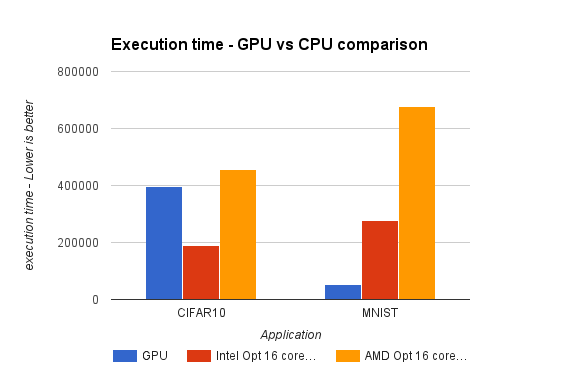
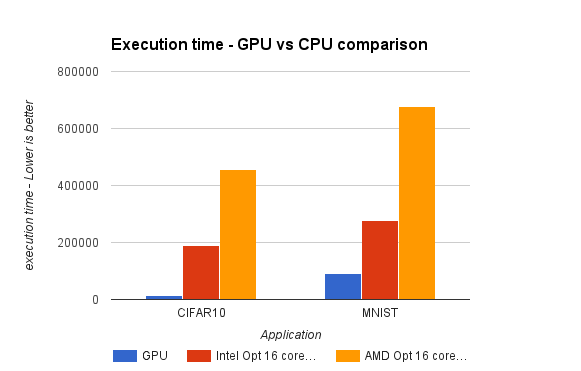
caffe optimization project complete

Changed region(s): [[0.2478, 0.504, 0.3408, 0.8005], [0.5577, 0.7412, 0.6196, 0.7709]]

diff --git a/projects/caffe-optimization-for-multicore-cpu.html b/projects/caffe-optimization-for-multicore-cpu.html
@@ -87,7 +87,8 @@
   <!--This is the START of the NIVO slider-->
   <div class="slider-wrapper theme-effe">
     <div id="slider" class="nivoSlider"> 
-	   <img src="../images/projects/compiler-optimizations/c++vector-parallel.png" alt="" title="#img2"/>
+       <img src="../images/projects/caffe-optimization/speedup-caffe.png"  alt="" title="#img1"/>
+	   <img src="../images/projects/caffe-optimization/dnn.png" alt="" width="600px" title="#img2"/>
     </div>
     <div id="slider-shadow"></div>
   </div>
@@ -97,16 +98,39 @@
     <div id="description">
 		<p>
 		<a href="http://caffe.berkeleyvision.org/">Caffe</a> is a deep learning framework made with expression, speed, and modularity in mind. It is developed by the Berkeley Vision and Learning Center (BVLC) and by community contributors.<br/>
-		There has been efforts to use GPU to speedup computation in the Caffe framework due to the Neural network operations being repetitive and compute intensive, <a href="http://devblogs.nvidia.com/parallelforall/deep-learning-computer-vision-caffe-cudnn/">cuDNN</a>. We believe there is scope for optimization to tune performance of Caffe on multicore CPU by using parallelism, smart locality and loop transforms.
-		This is an first step to show that there is still opportunity for better using the resources on CPUs to make Caffe run faster on modern multicore CPUs <br/> <br/>
-		We focus on 2 applications on Caffe - MNIST and CIFAR10. Each application was run for 10,000 iterations using a batch size of 64. We did not see significant improvement in performance by increasing batch size on our machines.
+		There has been efforts to use GPU to speedup computation in the Caffe framework due to the Neural network operations being repetitive and compute intensive, <a href="http://devblogs.nvidia.com/parallelforall/deep-learning-computer-vision-caffe-cudnn/">cuDNN</a>. There is scope for optimization to tune performance of Caffe on multicore CPU by using parallelism, smart data locality and loop transforms.
+		This is an first step to show that there is still opportunity for better using the resources on CPUs to make Caffe run faster on modern multicore CPUs. Since Intel Xeon processors are binary compatible with XeonPhi, these optimizations can also help accelerate the program when run on a XeonPhi Knights Corner and upcoming Knights Landing processors. <br/> <br/>
+		We focus on 2 applications on Caffe - MNIST and CIFAR10. Each application was run for 10,000 iterations using a batch size of 64. We did not see significant improvement in performance by increasing batch size on our machines. <br/>
 		We use <a href="https://software.intel.com/en-us/intel-mkl">Intel MKL</a> for accelerating math routines within Caffe as we observed OpenBLAS and ATLAS donot perform as well as MKL. Using the best performaning BLAS library allows us to show the tuning that can be done outside that which can be achieved by just tuning the BLAS calls. <br/> <br/>	
 		Our machine configuration was as below: <br/>
+		Software <br/>
+		&nbsp &nbsp• CentOS 7.1 <br/>
+		&nbsp &nbsp• gcc 4.8.3 <br/>
+		&nbsp &nbsp• Intel MKL 15.02<br/>
 		Intel Processor <br/>
+		&nbsp &nbsp• 2 Sockets, 12 core/socket, 2-way Hyperthreaded <br/>
+		&nbsp &nbsp• 48 core Intel Xeon E5-2690 v3 @ 2.60GHz (Haswell)<br/>
+		&nbsp &nbsp• 95 GB memory<br/>
 		AMD Processor <br/>
+		&nbsp &nbsp• 4 socket, 8 core/socket, 2-way Hyperthreaded <br/>
+		&nbsp &nbsp• 64 core AMD Opteron 6386 SE <br/>
+		&nbsp &nbsp• 95 GB memory <br/>
 		NVIDIA GPU <br/>
-		
-		
+		&nbsp &nbsp• NVIDIA GK110BGL Tesla K40c (Kepler) <br/>
+		&nbsp &nbsp• 12GB DDR5 <br/>
+		For our purposed we only study scaling of performance upto 16 cores on each multi-core machine. We are currently in the process of collecting results for higher core counts.<br/> <br/>
+		After applying our loop parallelization transforms within each layer and to an extent some data locality transforms, we analysed the distribution of time across the layers of MNIST and CIFAR applications. We find that the Convolution layer (conv2) in both the applications took the majority of time. In CIFAR however the pool1 layer took the maximum time. These are still potential regions for optimizations. <br/>
+
+		<img src="../images/projects/caffe-optimization/by-layer.png" height="200" width="520"/> <br/> <br/>
+		The figure below shows the execution time speedup obtained over baseline code on both Intel and AMD processors. Our optimized version of the code gets speedup of 2.7X on Intel and 2.6X on AMD for MNIST and 1.3X on AMD and 1.8X on Intel for CIFAR over baseline unoptimized implementation for 16 cores. <br/> <br/>
+		<img src="../images/projects/caffe-optimization/over-baseline.png" height="220" width="520"/> <br/> <br/>
+		Figure below shows the strong scaling characteristic of CIFAR and MNIST over increasing core counts. The graph shows the speedup w.r.t single threaded execution. Blue line indicates unoptimized code and red line indicates our optimized code. The graphs show the behavious on Intel processors followed by AMD processors.<br/> <br/>
+				<img src="../images/projects/caffe-optimization/scaling-intel.png" height="200" width="500"/> <br/> <br/>	
+		<img src="../images/projects/caffe-optimization/scaling-amd.png" height="170" width="480"/> <br/>
+		Finally we compare our best runtime on CPU (16 core) with that on the NVIDIA GPU using cuDNN calls to accelerate functions. Unfortunately there is about a 30X slow down of CPU for CIFAR and 7.5X slowdown of CPU for MNIST for GPU. This shows that the code for neural network scales well with increasing number of cores.
+		<img src="../images/projects/caffe-optimization/cpu-vs-gpu.png"/> <br/> <br/> <br/>
+		FUTURE WORK: There are still several optimizations possible for neural network and this work merely scratches the surface. We would like to further test this optimized code on a XeonPhi coprocessor given that the code can still scale over increasing core count and also given that the code performs well on a simplistic core like the GPU. <br/> <br/>
+		UPDATE: In a recent Intel High Performance Computing conference held in Bangalore on 14th Dec 2015, Intel revealed that they have been able to obtain a speed up of 13X on XeonPhi Knights Landing processor using MKL over a baseline run of the code using BLAS on a CPU. They also see a speedup of about 2X over the best known GPU implementation.
 		</p>
     </div>
     <ul id="work">

diff --git a/index.html b/index.html
@@ -130,14 +130,14 @@ When I'm not programming I am usually Biking, Travelling, Swimming and more.
 			</div>
 			<div class="recent-summary">
 
-				<div class="recent-item"> <a href="projects/dynamic-scoping-for-clang-compiler.html"><img src="images/projects/dynamic-scoping-clang/thumb.png" width="250" height="150" alt="recent2" /></a>
+				<div class="recent-item"> <a href="projects/caffe-optimization-for-multicore-cpu.html"><img src="images/projects/caffe-optimization/thumb.png" width="250" height="150" alt="recent2" /></a>
+					<h6>Optimizing Caffe (Neural Network Framework) for multicore CPUs</h6>
+					<p>Neural-net Optimization, multicore<a class="readmore" href="projects/caffe-optimization-for-multicore-cpu.html">read more →</a></p>
+				</div>
+				
+				<div class="recent-item-last"> <a href="projects/dynamic-scoping-for-clang-compiler.html"><img src="images/projects/dynamic-scoping-clang/thumb.png" width="250" height="150" alt="recent2" /></a>
 					<h6>Dynamic Scoping Clang Compiler</h6>
 					<p>Dynamic Scoping for C Programs<a class="readmore" href="projects/dynamic-scoping-for-clang-compiler.html">read more →</a></p>
-				</div>
-
-				<div class="recent-item-last"> <a href="projects/compiler-optimization-transforms.html"><img src="images/projects/compiler-optimizations/thumb.png" width="250" height="150" alt="recent2" /></a>
-					<h6>Compiler Optimizations & Tuning for Performance on SIMD / Multicore</h6>
-					<p>Multicore, SIMD, Optimization<a class="readmore" href="projects/compiler-optimization-transforms.html">read more →</a></p>
 				</div>
 				
 			</div>

diff --git a/portfolio.html b/portfolio.html
@@ -160,6 +160,10 @@
         <p>speedup code on modern procs<a class="readmore" href="projects/compiler-optimization-transforms.html">view →</a></p>
       </li>
 
+	  <li data-tags="Compiler, Computer Architecture"><a href="projects/caffe-optimization-for-multicore-cpu.html"><img src="images/projects/caffe-optimization/thumb.png" alt="Illustration" width="200px" height="120px" /></a>
+        <h6>Optimizing Caffe (DNN Framework) for CPUs</h6>
+        <p>speedup neural net on multicore<a class="readmore" href="projects/caffe-optimization-for-multicore-cpu.html">view →</a></p>
+      </li>
 <!--
 
       <li data-tags="Web Design,Print Design"><a href="project-sample.html"><img src="images/portfolio/thumbs/image(4).jpg" alt="Illustration" /></a>
